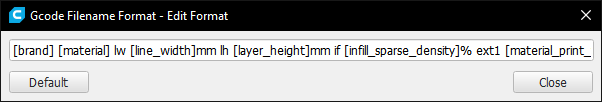
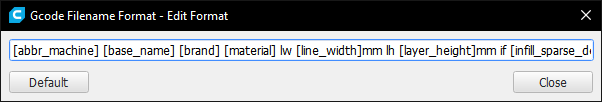
Update README and Help dialog

Changed region(s): [[0.0, 0.3824, 0.9867, 0.6176]]

diff --git a/Help.qml b/Help.qml
@@ -23,10 +23,10 @@ UM.Dialog
 
             text:
                 "<h1>Example</h1>
-                <p>PI3MK3M_paperclip Generic PLA lw 0.4mm lh 0.2mm if 20% ext1 200C bed 60C.gcode</p>
+                <p>PI3MK3M paperclip Generic PLA lw 0.4mm lh 0.2mm if 20% ext1 200C bed 60C.gcode</p>
                 <br>
                 <h1>Default filename format</h1>
-                <p>[base_name] [brand] [material] lw [line_width]mm lh [layer_height]mm if [infill_sparse_density]%<br>
+                <p>[abbr_machine] [base_name] [brand] [material] lw [line_width]mm lh [layer_height]mm if [infill_sparse_density]%<br>
                 ext1 [material_print_temperature]C bed [material_bed_temperature]C</p>
                 <br>
                 <h1>Usage</h1>
@@ -37,13 +37,7 @@ UM.Dialog
                     <img src=\"images/edit-format-dialog.png\"/>
                     <br>
                     <li>Slice object</li>
-                    <li>Select Save Gcode button (instead of default Save to File button)</li>
-                    <br>
-                    <br>
-                    <img src=\"images/save-gcode-button.png\"/>
-                    <br>
-                    <li>Futher modify formatted filename as desired in the save dialog</li>
-                    <li>Select Save</li>
+                    <li>Save .gcode or send job to printer</li>
                 </ol>
                 <br>
                 <p>Besides .gcode, the plugin will also work with other file types such as .3mf and .stl. Simply select from the<br>
@@ -53,6 +47,7 @@ UM.Dialog
                 <ul>
                     <li>base_name - the initial output filename from the object name and Cura's \"Add machine prefix to job name\" setting</li>
                     <li>job_name - same as base_name</li>
+                    <li>abbr_machine - abbreviated printer machine name</li>
                     <li>printer_name - printer manufacturer and model</li>
                     <li>profile_name - name of the profile used for slicing e.g. Normal, Fine, Draft</li>
                     <li>cura_version - the Semantic version of Cura e.g. 4.4.0</li>
@@ -101,12 +96,12 @@ UM.Dialog
                 <br>
                 <p>For example, the following format:</p>
                 <br>
-                <p>[base_name] ext1 [brand1] [material1] [material_print_temperature1]C [line_width1]mm<br>
+                <p>[abbr_machine] [base_name] ext1 [brand1] [material1] [material_print_temperature1]C [line_width1]mm<br>
                 ext2 [brand2] [material2] [material_print_temperature2]C [line_width2]mm</p>
                 <br>
                 <p>will result in the following filename:</p>
                 <br>
-                <p>paperclip ext1 Ultimaker ABS 255C 0.7mm ext2 Ultimaker Tough PLA 215C 0.35mm.gcode</p>
+                <p>PI3MK3M paperclip ext1 Ultimaker ABS 255C 0.7mm ext2 Ultimaker Tough PLA 215C 0.35mm.gcode</p>
                 <br>"
         }
     }

diff --git a/README.md b/README.md
@@ -4,11 +4,11 @@ Cura plugin for specifying filename format with print settings
 
 Example:
 
-    PI3MK3M_paperclip Generic PLA lw 0.4mm lh 0.2mm if 20% ext1 200C bed 60C.gcode
+    PI3MK3M paperclip Generic PLA lw 0.4mm lh 0.2mm if 20% ext1 200C bed 60C.gcode
 
 Default filename format:
 
-    [brand] [material] lw [line_width]mm lh [layer_height]mm if [infill_sparse_density]% ext1 [material_print_temperature]C bed [material_bed_temperature]C
+    [abbr_machine] [brand] [material] lw [line_width]mm lh [layer_height]mm if [infill_sparse_density]% ext1 [material_print_temperature]C bed [material_bed_temperature]C
 
 ## Requirements
 Cura 4.4 or later
@@ -40,6 +40,9 @@ Besides .gcode, the plugin will also work with other file types such as .3mf and
 
 ## Format options
 
+- base_name - object/model name
+- job_name - same as base_name
+- abbr_machine - abbreviated printer machine name
 - printer_name - printer manufacturer and model
 - profile_name - name of the profile used for slicing e.g. Normal, Fine, Draft
 - cura_version - the Semantic version of Cura e.g. 4.4.0
@@ -86,11 +89,11 @@ For printers with multiple extruders, individual extruder settings can be specif
 
 For example, the following format:
 
-    [base_name] ext1 [brand1] [material1] [material_print_temperature1]C [line_width1]mm ext2 [brand2] [material2] [material_print_temperature2]C [line_width2]mm
+    [abbr_machine] [base_name] ext1 [brand1] [material1] [material_print_temperature1]C [line_width1]mm ext2 [brand2] [material2] [material_print_temperature2]C [line_width2]mm
 
 will result in the following filename:
 
-    paperclip ext1 Ultimaker ABS 255C 0.7mm ext2 Ultimaker Tough PLA 215C 0.35mm.gcode
+    PI3MK3M paperclip ext1 Ultimaker ABS 255C 0.7mm ext2 Ultimaker Tough PLA 215C 0.35mm.gcode
 
 ## Source code
 https://github.com/rgomezjnr/GcodeFilenameFormat
